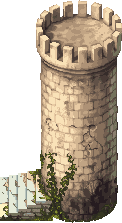
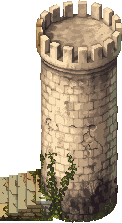
improve castle illustrations

diff --git a/games/inkheroes/src/art/pixel/siege.ts b/games/inkheroes/src/art/pixel/siege.ts
@@ -49,8 +49,8 @@ export const SIEGE_ART: Readonly<Record<string, SiegePiece>> = {
   'wallSouth-0': { url: pWallSouth0, x: 624, y: 364, foot: 466 },
   'wallSouth-2': { url: pWallSouth2, x: 639, y: 364, foot: 466 },
   'wallSouth-1': { url: pWallSouth1, x: 639, y: 364, foot: 466 },
-  'gate-1': { url: pGate1, x: 554, y: 147, foot: 254 },
-  'gate-0': { url: pGate0, x: 544, y: 196, foot: 254 },
+  'gate-1': { url: pGate1, x: 554, y: 147, foot: 140 },
+  'gate-0': { url: pGate0, x: 544, y: 196, foot: 140 },
   'wallGateNorth-2': { url: pWallGateNorth2, x: 590, y: 122, foot: 212 },
   'wallGateNorth-1': { url: pWallGateNorth1, x: 590, y: 122, foot: 212 },
   'wallGateSouth-2': { url: pWallGateSouth2, x: 590, y: 216, foot: 346 },

diff --git a/games/inkheroes/dev/pixel/siege3d/install.py b/games/inkheroes/dev/pixel/siege3d/install.py
@@ -33,7 +33,7 @@ SOUTH_TOWER = (709, 549)
 # the near wall sorts on its true foot, over every figure; it's cut around the south tower instead (`ghost`).
 SORT = {
     'farWall': 30, 'towerNorth': 40, 'wallNorth': 86, 'wallNorthInner': 128, 'wallGateNorth': 212,
-    'gate': 254, 'keep': 297, 'wallGateSouth': 346, 'wallSouthInner': 382, 'wallSouth': 466, 'wallSouthEnd': 507, 'towerSouth': 509, 'nearWall': 560,
+    'gate': 140, 'keep': 297, 'wallGateSouth': 346, 'wallSouthInner': 382, 'wallSouth': 466, 'wallSouthEnd': 507, 'towerSouth': 509, 'nearWall': 560,
 }
 # Where a piece lies flat on the ground it needs only these.
 MOAT_AT = (508, 40)
@@ -56,6 +56,9 @@ FAR_END = 16
 NEAR_FACE_Y = 508
 NEAR_TOP_ALPHA = 0.5
 NEAR_FACE_ALPHA = 0.34
+# The keep's steps, west of its body, came back from the painting nearly white: warmed to sit on the court's stone.
+STEPS_END_X = 820
+STEPS_TONE = np.array([0.82, 0.74, 0.6])
 # The court stops at the near wall's foot.
 COURT_END = 559
 
@@ -146,6 +149,13 @@ def ghost(im: Image.Image, at: tuple[int, int], tower: Image.Image, tower_at: tu
     return Image.fromarray(a.astype(np.uint8))
 
 
+def warm_steps(im: Image.Image, x: int) -> Image.Image:
+    """The keep with its steps toned down, `x` being its left edge in the world."""
+    a = np.array(im, dtype=float)
+    a[:, :STEPS_END_X - x, :3] *= STEPS_TONE
+    return Image.fromarray(a.astype(np.uint8))
+
+
 def main(castle: str) -> None:
     OUT.mkdir(parents=True, exist_ok=True)
     for f in OUT.glob('*.png'):
@@ -155,6 +165,8 @@ def main(castle: str) -> None:
         part = key.rsplit('-', 1)[0]
         im = Image.open(HERE / 'out' / castle / 'painted' / f'{key}.png').convert('RGBA')
         at = (p['wx'], p['wy'])
+        if part == 'keep':
+            im = warm_steps(im, at[0])
         if part in ('farWall', 'nearWall'):
             im, at = long_far_wall(im, at)
         if part == 'nearWall':

diff --git a/docs/inkheroes-design.md b/docs/inkheroes-design.md
@@ -272,7 +272,7 @@ Map 3, **The Black Banner** (48 × 36, the last free map, par 35 days): Rowan ho
 - **Shots over the wall** from outside do half damage while a standing part lies in the line.
 - **The garrison's AI** on foot stays behind the walls and never opens its gate to march out; it strikes what comes within them. Flyers go out. Attackers walk the way round the walls; with a Catapult they wait on the near bank while none is open, and without one they make for the gate, then any tower still manned.
 
-**The castle on the field (user, Nov 5).** A real 3D model, built stone by stone in modular parts with whole, cracked and broken states, rendered in the field's own projection and painted by PixelLab: the process, for this and every later faction's castle, is in [inkheroes-castles.md](inkheroes-castles.md). The user rejected two code-drawn castles and two painted 2D layouts before this. The hexes and rules did not change. The gate stands side-on in the line of the wall, as a gatehouse of two square turrets, so its door faces the attacker and can't be seen from the camera; the bridge lowers across the moat when a defender walks through, stays down while anyone stands there, and stays down once the gate falls (user, Nov 5). Battlements face away from the court. The south arm runs a row past the last hex and the south tower stands at its end, its foot allowed off the screen. A see-through wall along the bottom closes the castle, with figures in the last row showing through it. Walls run into the towers' bodies; the two stretches beside the gate (`wallGateNorth`, `wallGateSouth`) are round towers that crack and fall as a wall does; a breach opens on paving; a tower a town's level gives no place for still stands, unmanned. The town's buildings were tried behind the back wall and floated (user), so it's sky there.
+**The castle on the field (user, Nov 5).** A real 3D model, built stone by stone in modular parts with whole, cracked and broken states, rendered in the field's own projection and painted by PixelLab: the process, for this and every later faction's castle, is in [inkheroes-castles.md](inkheroes-castles.md). The user rejected two code-drawn castles and two painted 2D layouts before this. The hexes and rules did not change. The gate stands side-on in the line of the wall, as a gatehouse of two square turrets, so its door faces the attacker and can't be seen from the camera; the bridge lowers across the moat when a defender walks through, stays down while anyone stands there, and stays down once the gate falls (user, Nov 5). Battlements face away from the court. The south arm runs a row past the last hex and the south tower stands at its end, its foot allowed off the screen. The keep stands behind the last column, level with the gate, so it hides no one; its steps cover the hex it holds, and the defending hero stands below it (user, Nov 5). A see-through wall along the bottom closes the castle, with figures in the last row showing through it. Walls run into the towers' bodies; the two stretches beside the gate (`wallGateNorth`, `wallGateSouth`) are round towers that crack and fall as a wall does; a breach opens on paving; a tower a town's level gives no place for still stands, unmanned. The town's buildings were tried behind the back wall and floated (user), so it's sky there.
 
 **The town's buttons (user, Nov 5).** Hall, Fort, then the Guild and the Blacksmith ("Smith") only once built, then Leave (`townButtons` in `src/scenes/town/stripLayout.ts`). Beside the armies they sit in two rows with no hole: the last takes what is left of its row, and five need a third column, which on a screen 663 to 722 wide stacks the strip. Under 173 px of town above the strip, a Guild or Blacksmith room covers the strip instead of hiding its Buy behind it.
 

diff --git a/docs/inkheroes-castles.md b/docs/inkheroes-castles.md
@@ -41,7 +41,7 @@ Each is modular: it's rendered alone, and the game swaps its state in place. Key
 | `wallNorth`, `wallSouth` | 2 whole, 1 cracked, 0 breached | The breakable stretches |
 | `wallGateNorth`, `wallGateSouth` | 2, 1, 0 | The round towers either side of the gate. These are the game's two stretches beside the gate |
 | `gate` | 1 whole, 0 broken | The gatehouse: two square turrets on the gate's hex with the passage between them |
-| `keep`, `towerNorth`, `towerSouth` | 1, 0 | The towers companies stand on |
+| `keep`, `towerNorth`, `towerSouth` | 1, 0 | The towers companies stand on. The keep includes its steps |
 | `wallNorthInner`, `wallSouthInner`, `wallSouthEnd`, `farWall` | 2 | Never break |
 | `nearWall` | 2 | The wall along the field's bottom edge, nearest the viewer. Never breaks, and the game shows it see-through |
 
@@ -76,6 +76,7 @@ Ask for the surface only, and list what must not change. The sentence about stay
 - **The near wall stands in front of the bottom row.** It would hide those figures, so `ghost` in `install.py` bakes its transparency into the sprite: 34% for the face, 50% for the walk and battlements, so its line still reads. It sorts over every figure, so it's cut around the south tower rather than drawn over it. `COURT_END` stops the court at its foot.
 - **Keep the model's outline.** `sheets.py` takes only colour from the painting. PixelLab drifts and redraws edges a little, and the model's outline keeps everything on the hexes.
 - **Sorting is art direction.** `SORT` in `install.py` sets where each part sits among the figures. It isn't always its true foot: the upper arm and the gate sort early, or a figure outside them would be hidden. The keep and south tower sort just behind the company standing on them.
+- **The keep stands behind the last column (user), level with the gate,** so it hides no one and can stay tall. A company needs a hex, so the keep holds `hexAt(14, 5)`, the outermost hex of its row, and its steps cover that hex so the block makes sense on screen. The defender's hero stood there, so at a siege it stands below the keep (`heroFeet`). The formation row on that hex starts one column forward (`KEEP_ROW`).
 - **Keep the corner towers low.** The north tower's company must stay on a 16:9 screen, whose top edge is `y = 0`. The south tower stands a row past the arm's last hex, so its foot may run off the screen, which is fine (user). It stays low so it doesn't hide the court hex behind it. Its hex is still row 10's, which `src/logic/siege.ts` calls `towerSouth`.
 - **The bridge is the gate's only moving part.** `SiegeView` lowers it when a defender's path crosses the gate or the bridge (`throughGate`), keeps it down while anyone stands there, and leaves it down once the gate falls. It shows at a town with no moat too, or a gate opening there couldn't be seen.
 - **The moat is painted around the gate.** It bows out to the west at the gate's row, so the gatehouse stands in its inner edge and the bridge's end lands on the far bank. It stops at `y = 540`, above the south tower's foot, which only tall phones see.
